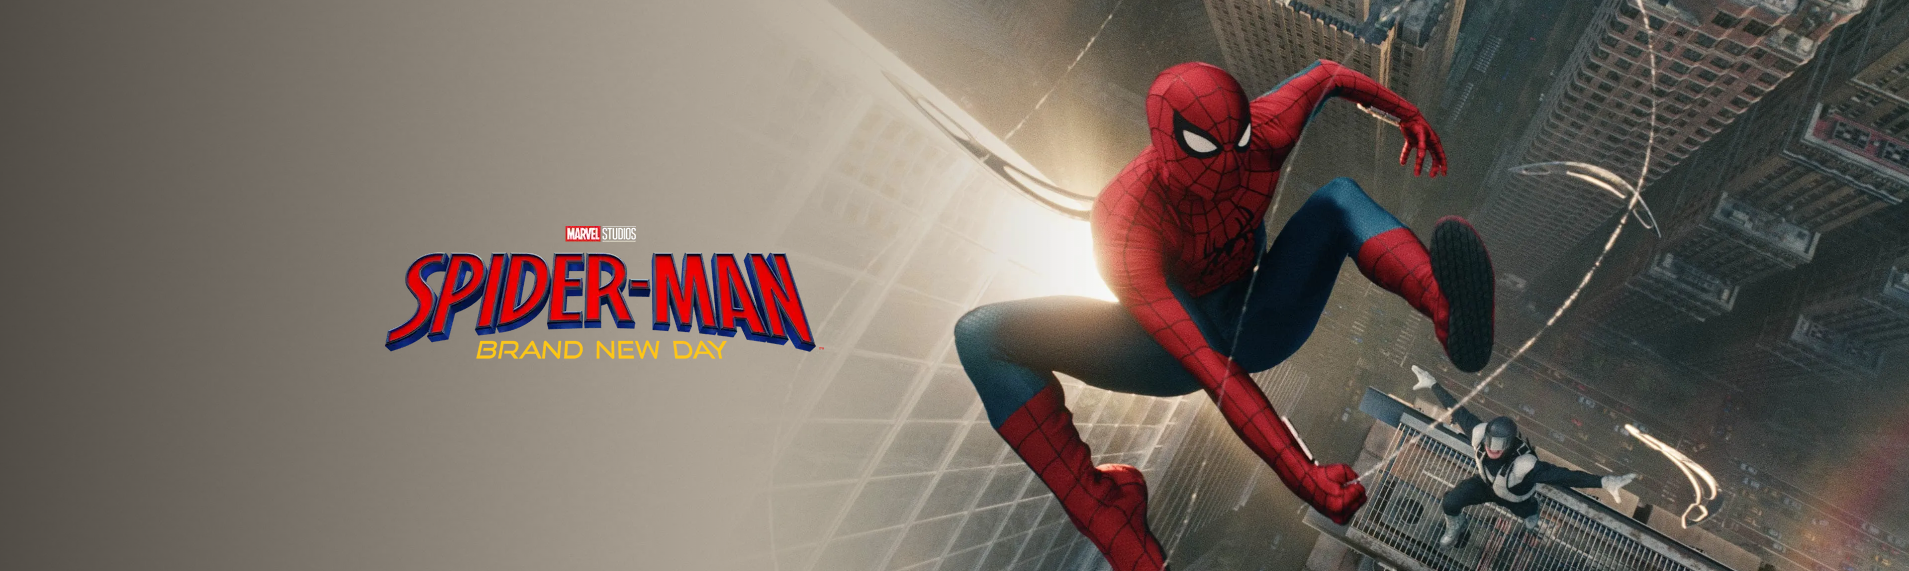
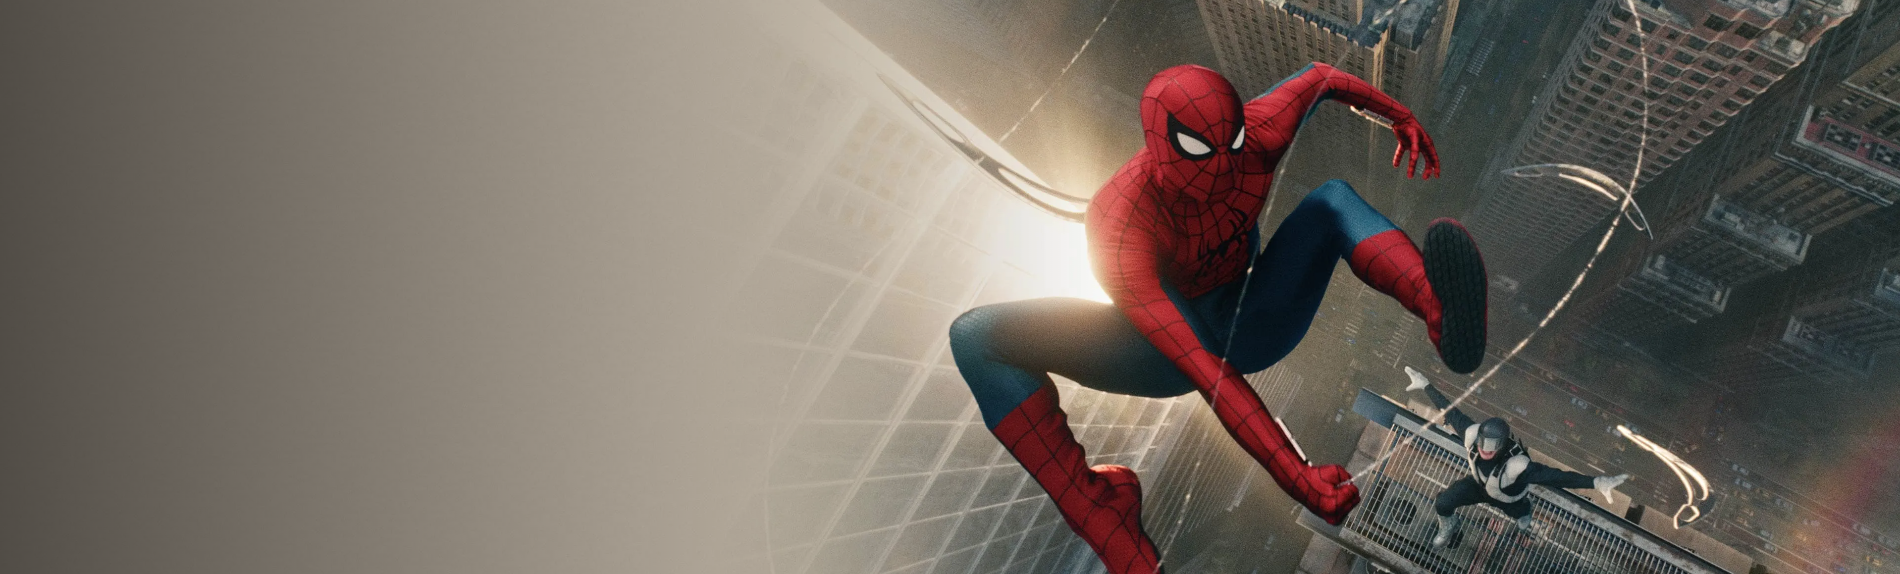
commit 16/06
inicio da parte de quadrinhos da pagina inicial

diff --git a/index2.html b/index2.html
@@ -3,7 +3,7 @@
 <head>
     <meta charset="UTF-8">
     <meta name="viewport" content="width=device-width, initial-scale=1.0">
-    <link rel="stylesheet" href="index2.css">
+    <link rel="stylesheet" href="styles/index2.css">
     <title>index</title>
 </head>
 <body>
@@ -22,15 +22,18 @@
             </div>
     </header>   
 <!----------------------------------------------------------------------->
-
     <main>
         <div>
             <section>
-            <img src="images/banner spider.png" alt="banner">
+            <img class="nome" src="images/nomes/nome spider man.webp" alt="nome">
             </section>
 
+            <section>
+            <img class="bannerfilmes" src="images/banner spider.png" alt="banner">
+            </section>
+
+
             <div class="DESTAQUE_filmes">
-                <h1>FILMES EM DESTAQUE</h1>
 
                 <div class="filmes">
 
@@ -38,49 +41,82 @@
                         <img src="images/capas/card vingadores ultimato.png" alt="filme">
                         <h3>Vingadores: ULTIMATO</h3>
                         <p>2000</p>
-                        <span>9,0</span>
                     </div>
 
                     <div class="filme">
                         <img src="images/capas/card capitao america.png" alt="filme">
                         <h3>Capitao america guerra civil</h3>
                         <p>2000</p>
-                        <span>9,0</span>
                     </div>
 
                     <div class="filme">
                         <img src="images/capas/card homem-formiga.png" alt="filme">
                         <h3>Homem Formiga</h3>
                         <p>2000</p>
-                        <span>9,0</span>
                     </div>
 
                     <div class="filme">
                         <img src="images/capas/card guardioes da galaxia.png" alt="filme">
                         <h3>Guardiões da galaxia</h3>
                         <p>2000</p>
-                        <span>9,0</span>
                     </div>
 
                     <div class="filme">
                         <img src="images/capas/card homem de ferro.png" alt="filme">
                         <h3>Homem de Ferro</h3>
                         <p>2000</p>
-                        <span>9,0</span>
                     </div>
 
                     <div class="filme">
                         <img src="images/capas/card thor ragnarok.png" alt="filme">
                         <h3>Thor Ragnarok</h3>
                         <p>2000</p>
-                        <span>9,0</span>
                     </div>
-
             </div>
+        </div>
+<!----------------------------------------------------------------------->
 
+        <section>
+            <img class="bannerquadrinhos" src="images/banner quadrinhoss.png" alt="">
+        </section>
 
+        <div>
+            <h1>Quer começar nas hqs e não sabe por onder?</h1>
+            <h2>Considere essas recomendações</h2>
+        </div>
 
+        <div class="DESTAQUE_HQS">
+            <div class="hqs">
+                <div class="hq">
+                        <img src="images/HQ DESAFIO INFINITO.png" alt="filme">
+                        <h3>Desafio INFINITO</h3>
+                </div>
 
+                <div class="hq">
+                        <img src="images/HQ DESAFIO INFINITO.png" alt="filme">
+                        <h3>Desafio INFINITO</h3>
+                </div>
+
+                <div class="hq">
+                        <img src="images/HQ DESAFIO INFINITO.png" alt="filme">
+                        <h3>Desafio INFINITO</h3>
+                </div>
+
+                <div class="hq">
+                        <img src="images/HQ DESAFIO INFINITO.png" alt="filme">
+                        <h3>Desafio INFINITO</h3>
+                </div>
+
+                <div class="hq">
+                        <img src="images/HQ DESAFIO INFINITO.png" alt="filme">
+                        <h3>Desafio INFINITO</h3>
+                </div>
+
+                <div class="hq">
+                        <img src="images/HQ DESAFIO INFINITO.png" alt="filme">
+                        <h3>Desafio INFINITO</h3>
+                </div>
+            </div>
         </div>
     </main>
 </body>

diff --git a/styles/index2.css b/styles/index2.css
@@ -1,0 +1,168 @@
+@import url('https://fonts.googleapis.com/css2?family=Bebas+Neue&display=swap');
+
+:root{
+    --fonte: 'Bebas Neue', sans-serif;
+}
+
+
+*{
+    margin: 0;
+    padding: 0;
+    box-sizing: border-box;
+}
+
+body{
+    background-color: #ffffff;
+}
+
+.cabecalho{
+    background-color: rgba(32, 32, 32);
+    align-items: center;
+    font-family: var(--fonte);
+    min-height: 90px;
+}
+
+.ull{
+    display: flex;
+    gap: 40px;
+    list-style: none;
+    padding-top: 60px;
+    margin-left: 10rem;
+}
+
+
+.menuu{
+    font-family: var(--fonte);
+    text-transform: uppercase;
+    letter-spacing: 1px;
+    font-size: 20px;
+    text-decoration: none;
+    color: #fff;
+    padding: 9rem;
+}
+/* ---------------------------------- */
+.DESTAQUE_filmes{
+    font-family: var(--fonte);
+    position: absolute;
+    background-color: #ffffff;
+    padding-left: 20px;
+    padding-right: 20px;
+    margin-top: -80px;
+    margin-left: 340px;
+}
+
+.bannerfilmes{
+    max-width: 100%;
+}
+
+.filmes{
+    display: grid;
+    grid-template-columns: repeat(6, 160px);
+    padding-top: 20px;
+    gap: 13px;
+}
+
+
+.filme{
+    width: 160px;
+    transition: 0.3s;
+    display: flex;
+    flex-direction: column;
+    align-items: center;
+}
+
+.filme:hover{
+    transform: scale(1.05);
+}
+
+
+.filme img{
+    width: 160px;
+    height: 250px;
+    display: block;
+}
+
+
+.filme h3{
+    color: #000000;
+    font-size: 15px;
+    font-weight: 900;
+    letter-spacing: 2px;
+    text-align: left;
+    width: 160px;
+}
+
+
+.filme p{
+    color: #818181;
+    margin-left: -135px;
+}
+
+.nome{
+    position: absolute;
+    margin-left: 300px;
+    margin-top: 180px;
+}
+/* ---------------------------------- */
+.bannerquadrinhos{
+    margin-top: 300px;
+    max-width: 100%;
+}
+
+.DESTAQUE_HQS{
+    font-family: var(--fonte);
+    position: absolute;
+    background-color: #ffffff;
+    padding-left: 20px;
+    padding-right: 20px;
+    margin-top: -80px;
+    margin-left: 340px;
+}
+
+.hqs{
+    display: grid;
+    grid-template-columns: repeat(6, 160px);
+    padding-top: 20px;
+    gap: 13px;
+}
+
+
+.hq{
+    width: 160px;
+    transition: 0.3s;
+    display: flex;
+    flex-direction: column;
+    align-items: center;
+}
+
+.hq:hover{
+    transform: scale(1.05);
+}
+
+
+.hq img{
+    
+    width: 160px;
+    height: 250px;
+    display: block;
+}
+
+
+.hq h3{
+    color: #000000;
+    font-size: 15px;
+    font-weight: 900;
+    letter-spacing: 2px;
+    text-align: left;
+    width: 160px;
+}
+
+
+.filme p{
+    color: #818181;
+    margin-left: -135px;
+}
+
+
+
+

diff --git a/login.html b/login.html
@@ -4,7 +4,7 @@
     <meta charset="UTF-8">
     <meta name="viewport" content="width=device-width, initial-scale=1.0">
     <title>Comique</title>
-    <link rel="stylesheet" href="index.css">
+    <link rel="stylesheet" href="styles/login.css">
     <link rel="preconnect" href="https://fonts.googleapis.com">
     <link rel="preconnect" href="https://fonts.gstatic.com" crossorigin>
     <link href="https://fonts.googleapis.com/css2?family=Poppins:ital,wght@0,100;0,200;0,300;0,400;0,500;0,600;0,700;0,800;0,900;1,100;1,200;1,300;1,400;1,500;1,600;1,700;1,800;1,900&display=swap" rel="stylesheet">

diff --git a/quadrinhos.html b/quadrinhos.html
@@ -3,7 +3,7 @@
 <head>
     <meta charset="UTF-8">
     <meta name="viewport" content="width=device-width, initial-scale=1.0">
-    <link rel="stylesheet" href="quadrinhos.css">
+    <link rel="stylesheet" href="styles/quadrinhos.css">
     <title>quadrinhos</title>
 </head>
 <body>

diff --git a/personagens.html b/personagens.html
@@ -1,0 +1,11 @@
+<!DOCTYPE html>
+<html lang="pt-br">
+<head>
+    <meta charset="UTF-8">
+    <meta name="viewport" content="width=device-width, initial-scale=1.0">
+    <title>personagens</title>
+</head>
+<body>
+    
+</body>
+</html>
